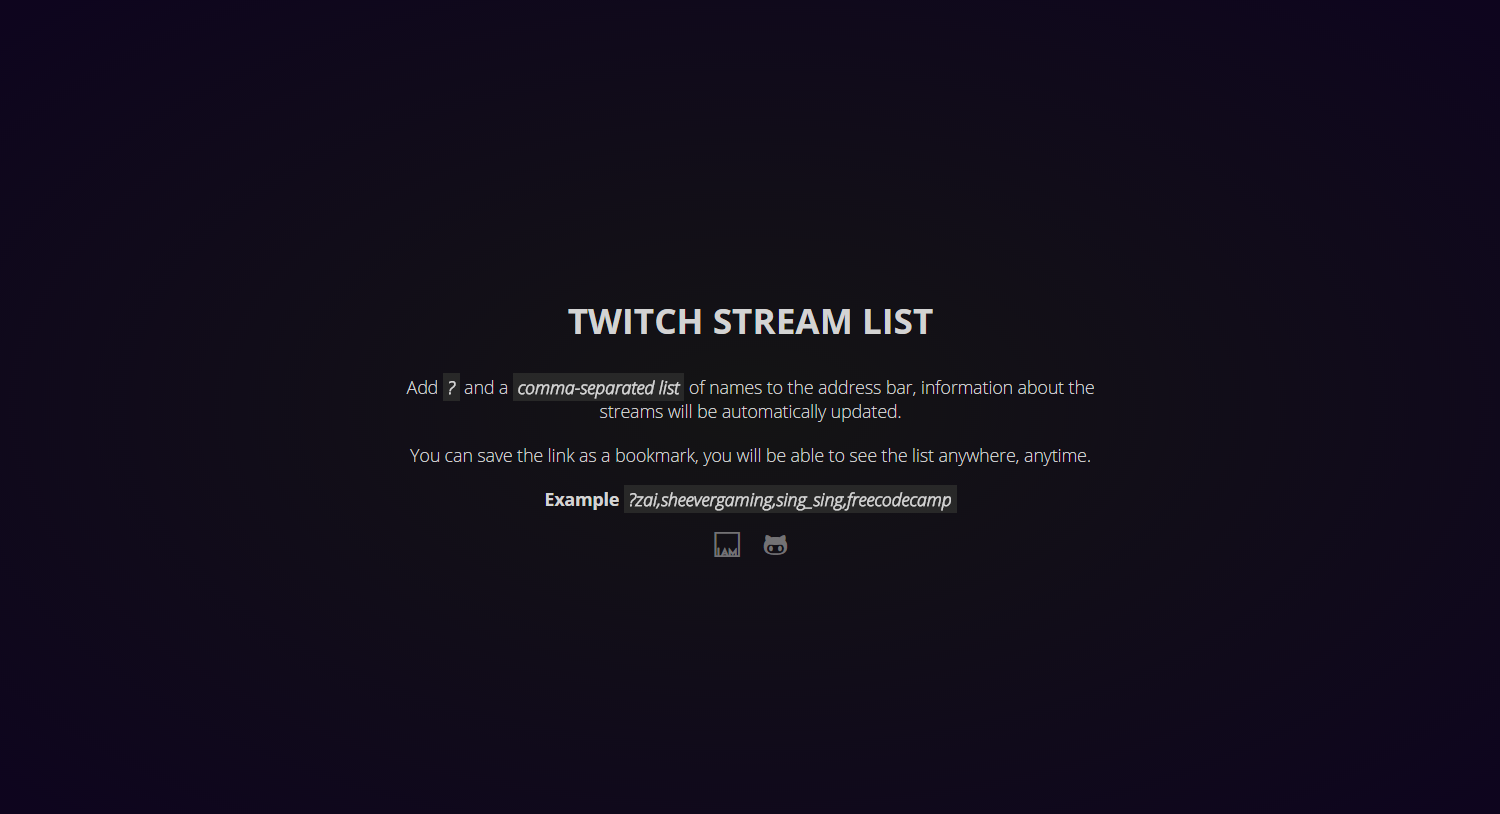
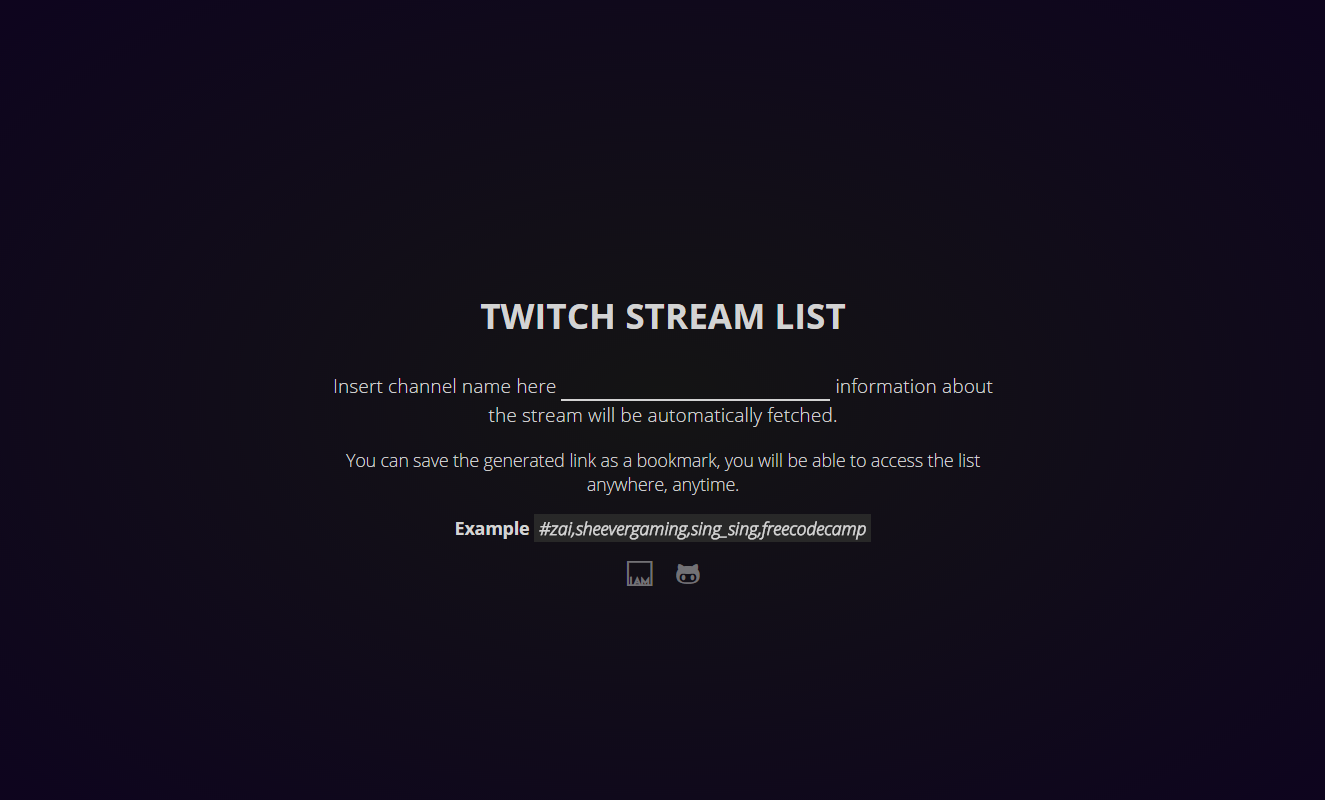
Updated README.md

Changed region(s): [[0.2475, 0.4688, 0.7426, 0.75], [0.3404, 0.375, 0.6498, 0.4375]]

diff --git a/js/controllers.min.js b/js/controllers.min.js
@@ -1,1 +1,1 @@
-var controllers=angular.module("twitchList.controllers",[]),MainController=function(t,e){function r(){angular.forEach(i,function(t){this.push(t)},n.results=[]),n.status="All"}function s(){angular.forEach(i,function(t){"online"===t.status&&this.push(t)},n.results=[]),n.status="Online"}function l(){angular.forEach(i,function(t){"online"!==t.status&&this.push(t)},n.results=[]),n.status="Offline"}function o(a){e.appendHash(0===i.length?a:","+a),i.push(t.requestStream(a)),n["display"+n.status](),n.enableTutorial=!1,n.field=""}var n=this,a=t.splitAddressHash(","),i=[];console.log(a),angular.forEach(a,function(e){this.push(t.requestStream(e))},i),n.enableTutorial=0===i.length?!0:!1,n.showPanel=!1,n.status="All",n.results=[],n.path=e.getPath(),n.displayAll=r,n.displayOnline=s,n.displayOffline=l,n.addChannel=o,n.displayAll()};MainController.$inject=["twitchListService","locationService"],controllers.controller("mainController",MainController);
+var controllers=angular.module("twitchList.controllers",[]),MainController=function(t,e){function r(){angular.forEach(i,function(t){this.push(t)},n.results=[]),n.status="All"}function s(){angular.forEach(i,function(t){"online"===t.status&&this.push(t)},n.results=[]),n.status="Online"}function l(){angular.forEach(i,function(t){"online"!==t.status&&this.push(t)},n.results=[]),n.status="Offline"}function o(a){e.appendHash(0===i.length?a:","+a),i.push(t.requestStream(a)),n["display"+n.status](),n.enableTutorial=!1,n.field=""}var n=this,a=t.splitAddressHash(","),i=[];angular.forEach(a,function(e){this.push(t.requestStream(e))},i),n.enableTutorial=0===i.length?!0:!1,n.showPanel=!1,n.status="All",n.results=[],n.path=e.getPath(),n.displayAll=r,n.displayOnline=s,n.displayOffline=l,n.addChannel=o,n.displayAll()};MainController.$inject=["twitchListService","locationService"],controllers.controller("mainController",MainController);

diff --git a/index.html b/index.html
@@ -19,7 +19,7 @@
 			<h1>Twitch Stream List</h1>
 			<p><form ng-submit="mc.addChannel(mc.field)">Insert channel name here <input type="text" ng-model="mc.field" /> information about the stream will be automatically fetched.</form></p>
 			<p>You can save the generated link as a bookmark, you will be able to access the list anywhere, anytime.</p>
-			<p><a ng-href="{{mc.path + '#zai,sheevergaming,sing_sing,freecodecamp'}}">Example <span>#zai,sheevergaming,sing_sing,freecodecamp</span></a></p>
+			<p><a ng-href="{{mc.path + '?#zai,sheevergaming,sing_sing,freecodecamp'}}">Example <span>#zai,sheevergaming,sing_sing,freecodecamp</span></a></p>
 			<p><a href="http://www.iamsquare.it" target="_blank"><i class="logo logo-logo"></i></a>  <a href="http://github.com/squaremarco/jsTwitchList" target="_blank"><i class="fa fa-github-alt"></i></a>  <!--<a href="#" target="_blank"><i class="fa fa-file-code-o"></i></a>--></p>
 		</div>
 		<form class="channel-form" ng-show="!mc.enableTutorial" ng-submit="mc.addChannel(mc.field)">Add new channel <input type="text" ng-model="mc.field" /></form>

diff --git a/js/controllers.js b/js/controllers.js
@@ -5,8 +5,6 @@ var MainController = function(TwitchListService, LocationService){
 	var channels = TwitchListService.splitAddressHash(",");
 	var results = [];
 
-	console.log(channels);
-
 	angular.forEach(channels, function(value){
 		this.push(TwitchListService.requestStream(value));
 	}, results);

diff --git a/README.md b/README.md
@@ -1,7 +1,7 @@
 #jsTwitchList
 Twitch app for FreeCodeCamp zipline: https://www.freecodecamp.com/challenges/use-the-twitchtv-json-api
 
-#Preview as of 04-Jul-16
+#Preview as of 05-Jul-16
 
 ![Home - w/o list](previewHome.png)
 
@@ -16,4 +16,4 @@ Extensions used:
 
 ###TODO:
 * Embed player directly into the page.
-* Add a way to insert a new channel in the list.
+* Add channel name validation on insert.
